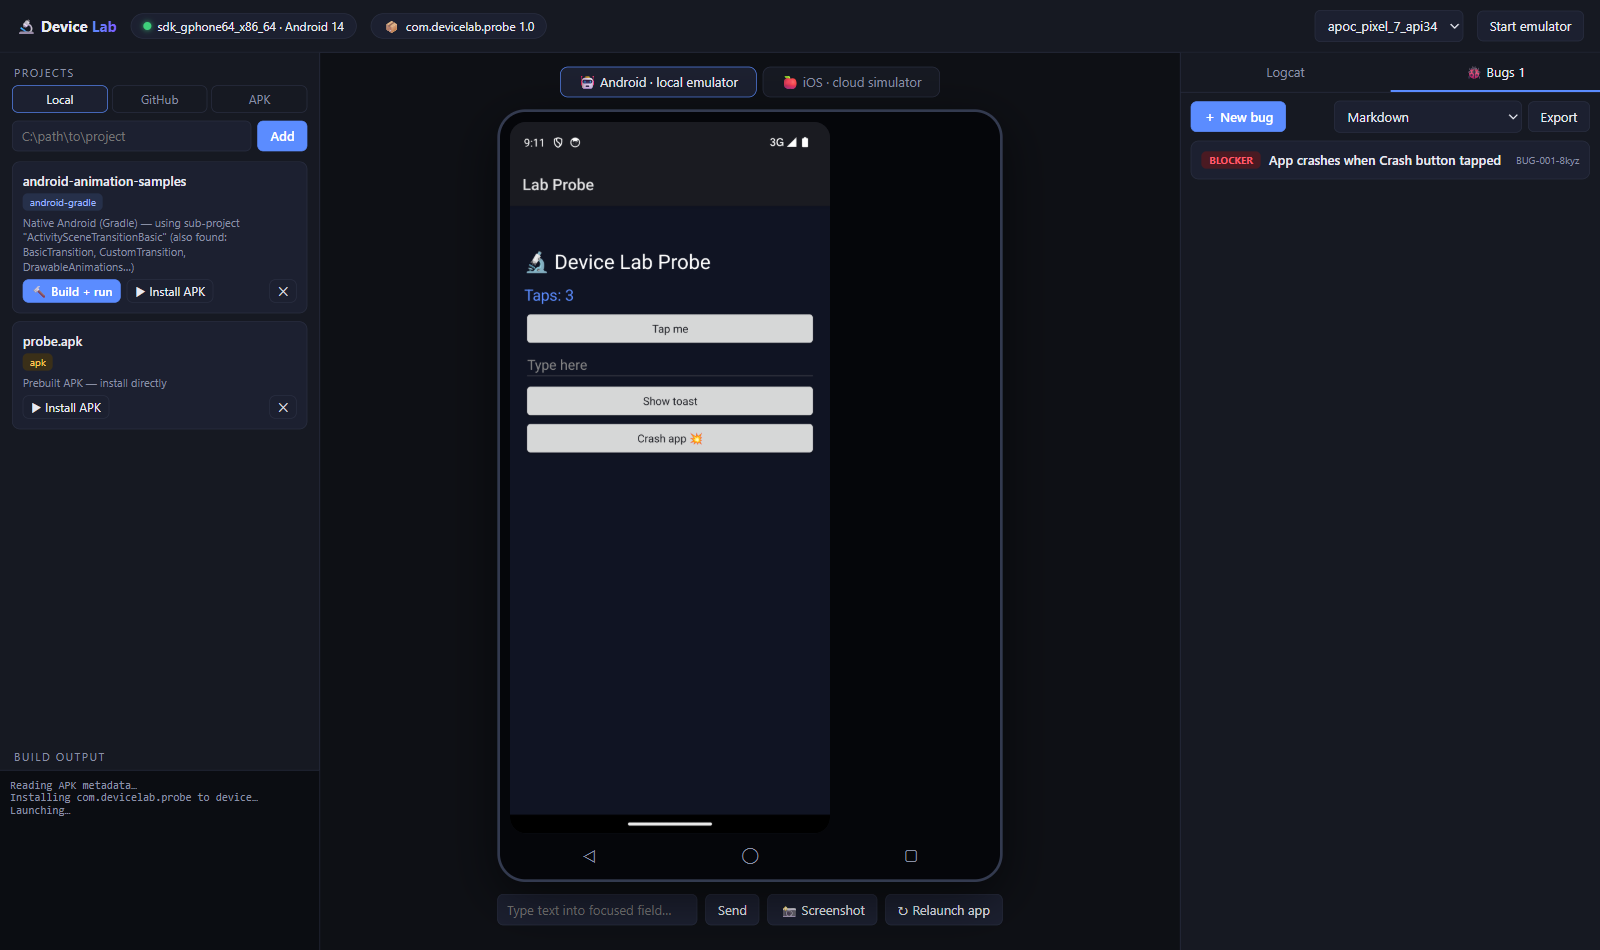
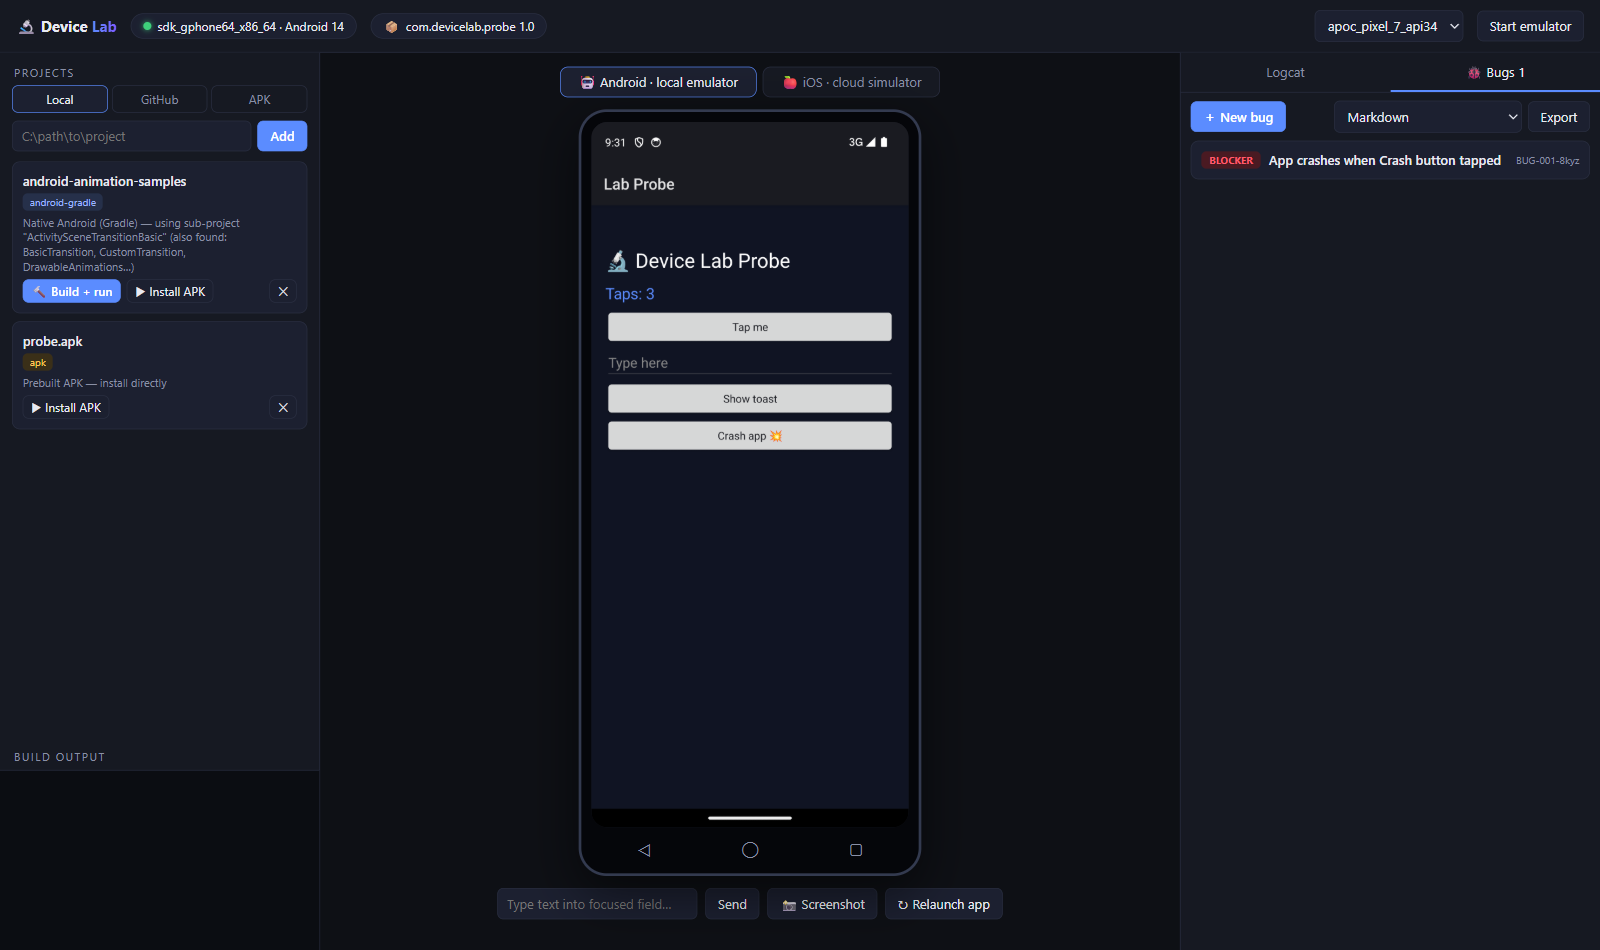
Fit the device stream to the phone frame and window height
The frame was block-stretching to the action bar's width, leaving dead
space beside the stream, and the screen was fixed at 320px. The frame now
hugs the stream (fit-content) and the stream is height-driven
(calc(100vh - 245px), aspect ratio decides width).

diff --git a/public/style.css b/public/style.css
@@ -74,13 +74,21 @@ main { flex: 1; display: flex; min-height: 0; }
 .platform-tabs { display: flex; gap: 6px; margin-bottom: 12px; }
 .platform-tab { padding: 6px 18px; border-radius: 8px; border: 1px solid var(--border); background: var(--panel); color: var(--dim); cursor: pointer; font-size: 13px; }
 .platform-tab.active { color: var(--text); border-color: var(--accent); background: var(--panel2); }
+#androidPanel { display: flex; flex-direction: column; align-items: center; }
 .phone {
   background: #05060a; border: 3px solid #333a4f; border-radius: 28px;
   padding: 10px; box-shadow: 0 16px 50px rgba(0,0,0,.55); position: relative;
+  width: fit-content;   /* hug the screen — no dead space around the stream */
 }
-#screen { display: block; width: 320px; border-radius: 16px; cursor: crosshair; user-select: none; -webkit-user-drag: none; background: #10131c; min-height: 640px; }
+#screen {
+  display: block; border-radius: 16px; cursor: crosshair; user-select: none;
+  -webkit-user-drag: none; background: #10131c;
+  /* height-driven: fill the window, aspect ratio decides the width */
+  height: calc(100vh - 245px); min-height: 480px; width: auto; max-width: 70vw;
+}
 .screen-off {
-  width: 320px; height: 640px; display: flex; flex-direction: column; gap: 10px;
+  width: 320px; height: calc(100vh - 245px); min-height: 480px;
+  display: flex; flex-direction: column; gap: 10px;
   align-items: center; justify-content: center; color: var(--dim); font-size: 13px;
 }
 .navbar { display: flex; justify-content: space-around; padding-top: 8px; }
